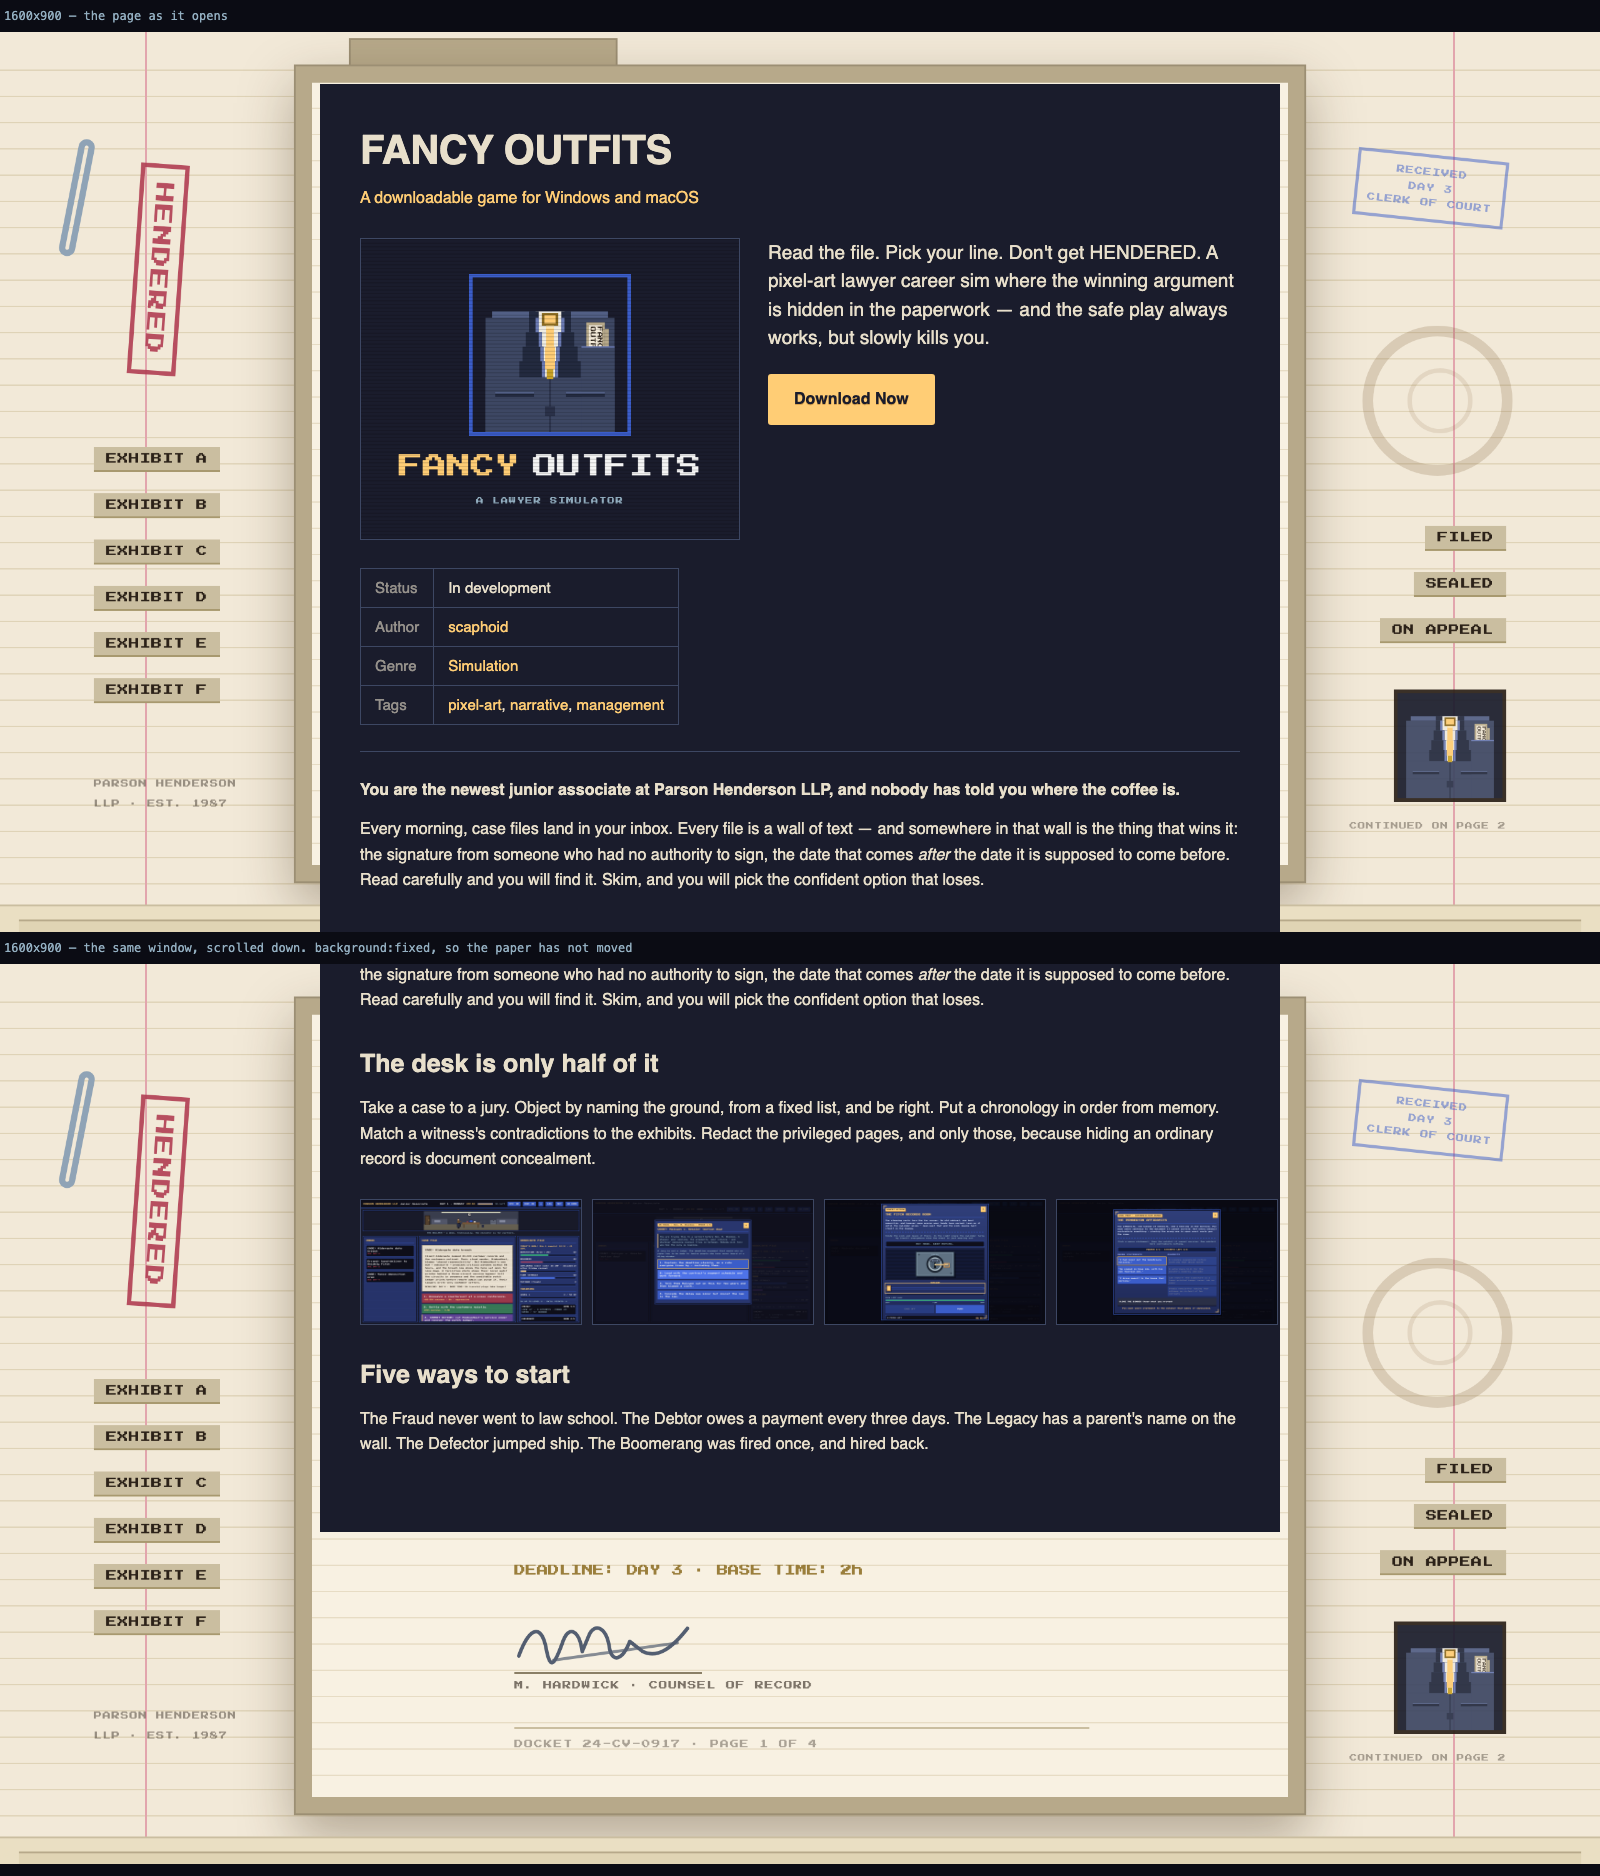
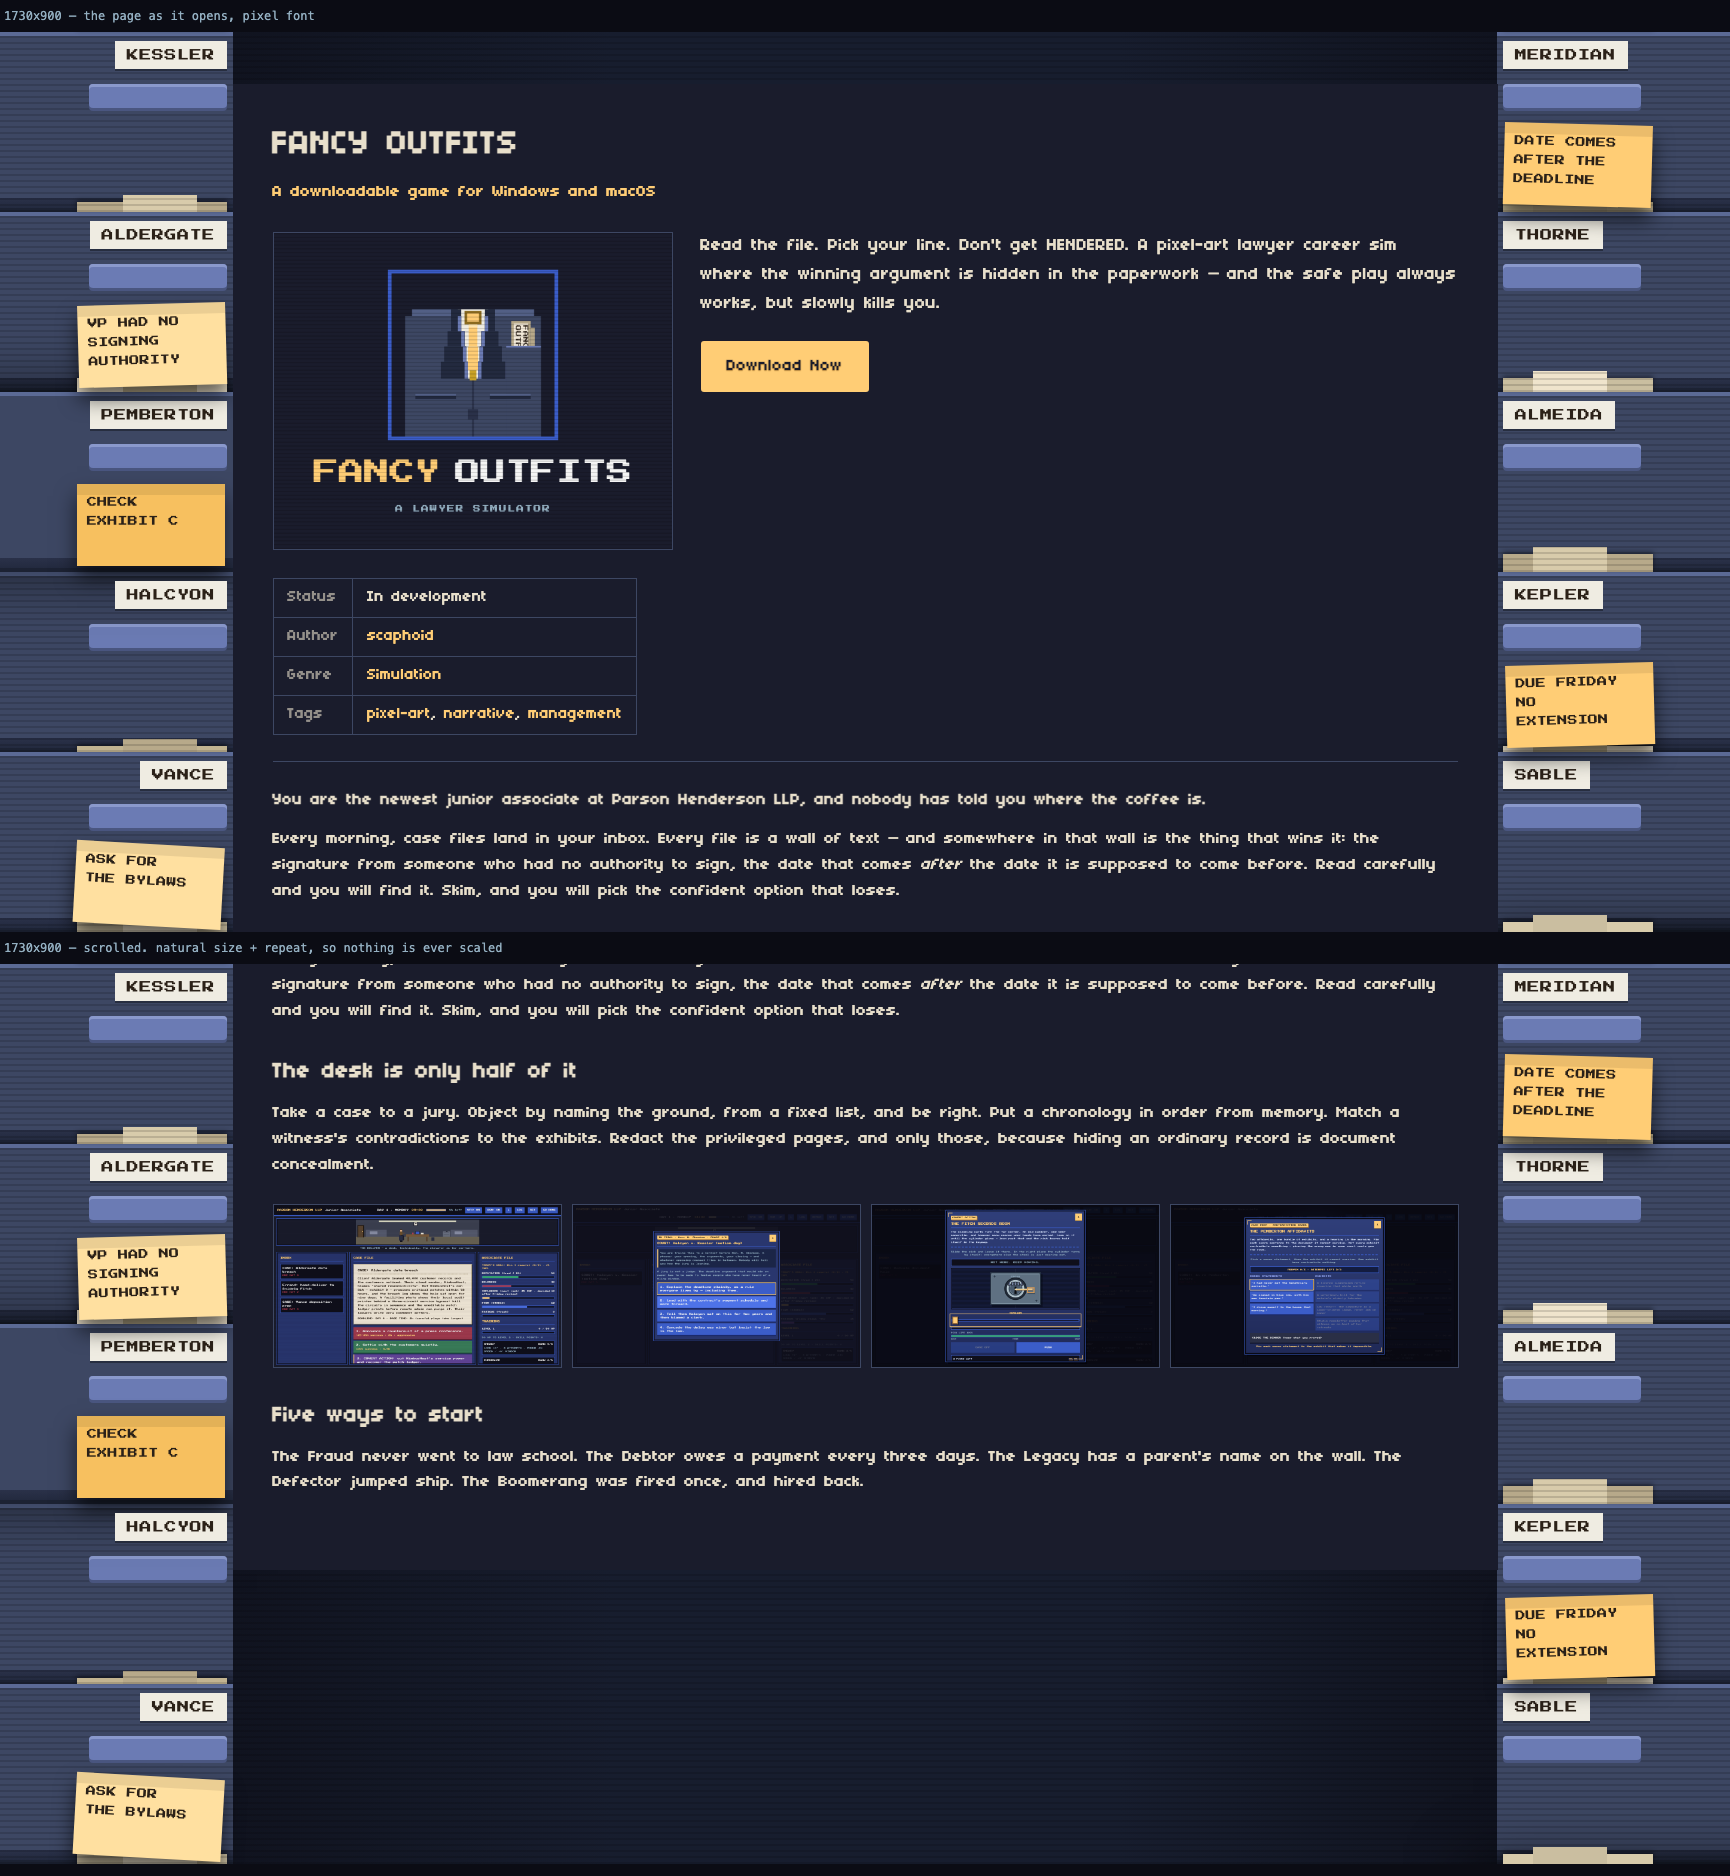
store: set the page in itch's pixel face
Checked itch's own stylesheet rather than guessing: static.itch.io/game.css
carries an @font-face for Lato and for 04b_03, and nothing else. So the retro
pages on the site are not doing anything clever — the pixel face is one entry in
the Font dropdown, and the theme block on those pages is just
--itchio_font_family: '04b_03'.

The theme preview now renders in that face, fetched from itch's CDN at render
time and never committed, over the cabinet background at natural size. It also
mocks the real 1265px panel in a 1730px window instead of the 960 it assumed
before, so what it shows is what the page shows.

itch does not scale the type up to compensate, so a long description reads
slower in it than in Lato. Worth knowing; still the right call, because the game
is pixel art and the page should look like the game.

diff --git a/assets/store/ITCH.md b/assets/store/ITCH.md
@@ -127,6 +127,7 @@ settings are:
 
 | Edit theme field | Value |
 | --- | --- |
+| Font | **04b_03** |
 | Background image | the chosen `cabinet/*.png` |
 | Repeat | **repeat** — *not* cover, and not contain |
 | Fixed / parallax | either; at natural size nothing is being scaled, so it cannot zoom |
@@ -134,6 +135,22 @@ settings are:
 At natural size the wall runs down a page of any height with no scaling at all, and
 the cabinets sit in the outer 650px of each side, which is where the gutter falls once
 a 1250px column is centred.
+
+## The font
+
+itch's theme editor serves exactly two body faces, and only two: **Lato** and
+**04b_03**, a 5x7 pixel face. Checked against itch's own stylesheet, not guessed —
+`static.itch.io/game.css` carries an `@font-face` for each and nothing else. So a
+pixel page is one dropdown away, and it is how every retro page on the site does it.
+
+Set **Font: 04b_03**. It applies to the whole panel, headings included, and itch
+does not adjust the size to compensate, so a long description reads noticeably
+slower than it does in Lato. That is the trade, and it is the right one here: the
+game is pixel art and the page should look like the game.
+
+`scripts/store-itch-theme.mjs` renders the preview in the real face, pulled from
+itch's own CDN at render time. It is never committed; the published page loads it
+from itch the same way.
 
 ## Trailer and animated cover
 
